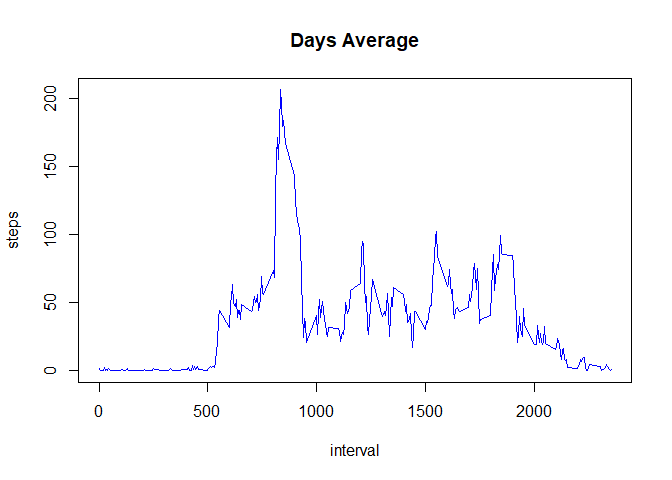
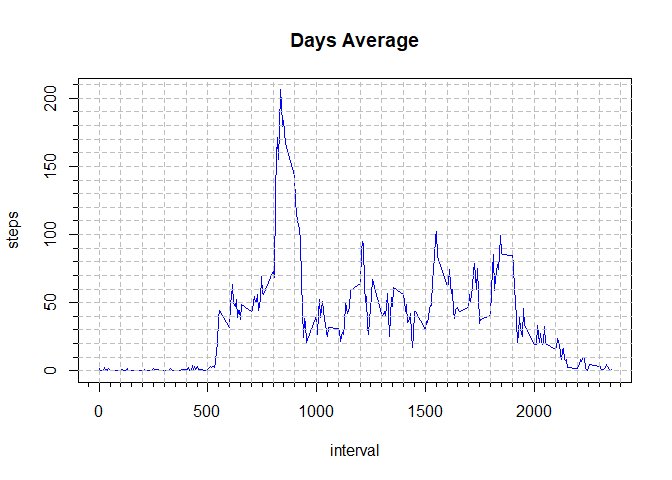
NA and format of the text

diff --git a/PA1_template.html b/PA1_template.html
@@ -195,16 +195,16 @@ pre code {
 </div>
 <div id="what-is-mean-total-number-of-steps-taken-per-day" class="section level2">
 <h2>What is mean total number of steps taken per day?</h2>
-<p>Calculate the total number of steps taken per day</p>
-<pre class="r"><code>act_notNan &lt;- subset(act, !is.na(act$steps))
+<p><strong>Calculate the total number of steps taken per day</strong></p>
+<pre class="r"><code>act_notNan &lt;- act_notNan &lt;- na.omit(act)
 act_steps_day &lt;- setNames(aggregate(
                           x=act_notNan$steps, by=list(act_notNan$date), sum), 
                  c(&quot;Date&quot;, &quot;Total_Steps&quot;))</code></pre>
-<p>If you do not understand the difference between a histogram and a barplot, research the difference between them. Make a histogram of the total number of steps taken each day</p>
+<p><strong>If you do not understand the difference between a histogram and a barplot, research the difference between them. Make a histogram of the total number of steps taken each day</strong></p>
 <pre class="r"><code>hist(act_steps_day$&#39;Total_Steps&#39;, 
      col = &quot;green&quot;, main=&quot;Steps Frequency&quot;, xlab = &quot;Step Intervals&quot;)</code></pre>
[1 lines of base64/hex data omitted]
-<p>Calculate and report the mean and median of the total number of steps taken per day</p>
[1 lines of base64/hex data omitted]
+<p><strong>Calculate and report the mean and median of the total number of steps taken per day</strong></p>
 <pre class="r"><code>mean(act_steps_day$Total_Steps)</code></pre>
 <pre><code>## [1] 10766.19</code></pre>
 <pre class="r"><code>median(act_steps_day$Total_Steps)</code></pre>
@@ -212,17 +212,58 @@ act_steps_day &lt;- setNames(aggregate(
 </div>
 <div id="what-is-the-average-daily-activity-pattern" class="section level2">
 <h2>What is the average daily activity pattern?</h2>
-<p>Make a time series plot (i.e. type = “l”) of the 5-minute interval (x-axis) and the average number of steps taken, averaged across all days (y-axis)</p>
-<pre class="r"><code>act_mean &lt;- aggregate(steps ~ interval, data = act_notNan, mean)
-with(act_mean, plot(interval, steps, type=&quot;l&quot;, col=&quot;blue&quot;, main=&quot;Days Average&quot;))</code></pre>
[1 lines of base64/hex data omitted]
-<p>Which 5-minute interval, on average across all the days in the dataset, contains the maximum number of steps?</p>
+<p><strong>Make a time series plot (i.e. type = “l”) of the 5-minute interval (x-axis) and the average number of steps taken, averaged across all days (y-axis)</strong></p>
+<pre class="r"><code>library(Hmisc)
+act_mean &lt;- aggregate(steps ~ interval, data = act_notNan, mean)
+with(act_mean, plot(interval, steps, type=&quot;l&quot;, col=&quot;blue&quot;, main=&quot;Days Average&quot;))
+minor.tick(nx = 10, ny = 5, tick.ratio = 0.5)
+abline(v = seq(0, 2500, 100), lty = 2, col = &quot;gray&quot;)
+abline(h = seq(0, 210, 10), lty = 2, col = &quot;gray&quot;)</code></pre>
[1 lines of base64/hex data omitted]
+<p><strong>Which 5-minute interval, on average across all the days in the dataset, contains the maximum number of steps?</strong></p>
+<pre class="r"><code>subset(act_mean$interval, act_mean$steps == max(act_mean$steps))</code></pre>
+<pre><code>## [1] 835</code></pre>
 </div>
 <div id="imputing-missing-values" class="section level2">
 <h2>Imputing missing values</h2>
+<p><strong>Calculate and report the total number of missing values in the dataset (i.e. the total number of rows with NAs)</strong></p>
+<pre class="r"><code>sum(!complete.cases(act))</code></pre>
+<pre><code>## [1] 2304</code></pre>
+<p><strong>Devise a strategy for filling in all of the missing values in the dataset. The strategy does not need to be sophisticated. For example, you could use the mean/median for that day, or the mean for that 5-minute interval, etc.</strong></p>
+<p>To decide the best strategy keep in mind that:</p>
+<ul>
+<li>Can’t drop rows because may introduce bias into some calculations or summaries of the data.</li>
+<li>All NA values are in the steps column.</li>
+<li>NA are found in all intervals of the same date.</li>
+</ul>
+<p>So, I decided to use the mean for that 5-minute interval.</p>
+<p><strong>Create a new dataset that is equal to the original dataset but with the missing data filled in.</strong></p>
+<pre class="r"><code>act_fill &lt;- act
+
+act_inter &lt;- setNames(aggregate(
+        x=act_notNan$steps, by=list(act_notNan$interval), mean), 
+        c(&quot;Interval&quot;, &quot;Steps_mean&quot;))
+
+
+for(int in act_inter$Interval){
+        step &lt;- act_inter$Steps_mean[act_inter$Interval == int]
+        act_fill$steps[is.na(act_fill$steps) &amp; act_fill$interval == int] &lt;- step
+}
+
+summary(act_fill)</code></pre>
+<pre><code>##      steps            date              interval     
+##  Min.   :  0.00   Length:17568       Min.   :   0.0  
+##  1st Qu.:  0.00   Class :character   1st Qu.: 588.8  
+##  Median :  0.00   Mode  :character   Median :1177.5  
+##  Mean   : 37.38                      Mean   :1177.5  
+##  3rd Qu.: 27.00                      3rd Qu.:1766.2  
+##  Max.   :806.00                      Max.   :2355.0</code></pre>
+<p><strong>Make a histogram of the total number of steps taken each day and Calculate and report the mean and median total number of steps taken per day. Do these values differ from the estimates from the first part of the assignment? What is the impact of imputing missing data on the estimates of the total daily number of steps?</strong></p>
 </div>
 <div id="are-there-differences-in-activity-patterns-between-weekdays-and-weekends" class="section level2">
 <h2>Are there differences in activity patterns between weekdays and weekends?</h2>
+<p><strong>Create a new factor variable in the dataset with two levels – “weekday” and “weekend” indicating whether a given date is a weekday or weekend day.</strong></p>
+<p><strong>Make a panel plot containing a time series plot (i.e. type = “l”) of the 5-minute interval (x-axis) and the average number of steps taken, averaged across all weekday days or weekend days (y-axis). See the README file in the GitHub repository to see an example of what this plot should look like using simulated data.</strong></p>
 </div>
 
 

diff --git a/PA1_template.md b/PA1_template.md
@@ -51,19 +51,19 @@ summary(act)
 
 ## What is mean total number of steps taken per day?
 
-Calculate the total number of steps taken per day
+**Calculate the total number of steps taken per day**
 
 
 ```r
-act_notNan <- subset(act, !is.na(act$steps))
+act_notNan <- act_notNan <- na.omit(act)
 act_steps_day <- setNames(aggregate(
                           x=act_notNan$steps, by=list(act_notNan$date), sum), 
                  c("Date", "Total_Steps"))
 ```
 
-If you do not understand the difference between a histogram and a barplot, 
+**If you do not understand the difference between a histogram and a barplot, 
 research the difference between them. Make a histogram of the total number 
-of steps taken each day
+of steps taken each day**
 
 
 ```r
@@ -71,10 +71,10 @@ hist(act_steps_day$'Total_Steps',
      col = "green", main="Steps Frequency", xlab = "Step Intervals")
 ```
 
-![](PA1_template_files/figure-html/hist-1.png)<!-- -->
+<img src="PA1_template_files/figure-html/hist-1.png" width="50%" height="50%" />
 
-Calculate and report the mean and median of the total number of steps taken 
-per day
+**Calculate and report the mean and median of the total number of steps taken 
+per day**
 
 
 ```r
@@ -95,23 +95,90 @@ median(act_steps_day$Total_Steps)
 
 ## What is the average daily activity pattern?
 
-Make a time series plot (i.e. type = "l") of the 5-minute interval (x-axis) 
-and the average number of steps taken, averaged across all days (y-axis)
+**Make a time series plot (i.e. type = "l") of the 5-minute interval (x-axis) 
+and the average number of steps taken, averaged across all days (y-axis)**
 
 
 ```r
+library(Hmisc)
 act_mean <- aggregate(steps ~ interval, data = act_notNan, mean)
 with(act_mean, plot(interval, steps, type="l", col="blue", main="Days Average"))
+minor.tick(nx = 10, ny = 5, tick.ratio = 0.5)
+abline(v = seq(0, 2500, 100), lty = 2, col = "gray")
+abline(h = seq(0, 210, 10), lty = 2, col = "gray")
 ```
 
 ![](PA1_template_files/figure-html/average-1.png)<!-- -->
 
-Which 5-minute interval, on average across all the days in the dataset, contains the maximum number of steps?
+**Which 5-minute interval, on average across all the days in the dataset, contains 
+the maximum number of steps?**
 
+```r
+subset(act_mean$interval, act_mean$steps == max(act_mean$steps))
+```
 
+```
+## [1] 835
+```
 
 ## Imputing missing values
 
+**Calculate and report the total number of missing values in the dataset (i.e. the total number of rows with NAs)**
 
+```r
+sum(!complete.cases(act))
+```
+
+```
+## [1] 2304
+```
+
+**Devise a strategy for filling in all of the missing values in the dataset. 
+The strategy does not need to be sophisticated. For example, you could use the 
+mean/median for that day, or the mean for that 5-minute interval, etc.**
+
+To decide the best strategy keep in mind that:
+
+- Can't drop rows because may introduce bias into some calculations or summaries of the data.
+- All NA values are in the steps column.
+- NA are found in all intervals of the same date.
+
+So, I decided to use the mean for that 5-minute interval.
+
+
+**Create a new dataset that is equal to the original dataset but with the missing data filled in.**
+
+
+```r
+act_fill <- act
+
+act_inter <- setNames(aggregate(
+        x=act_notNan$steps, by=list(act_notNan$interval), mean), 
+        c("Interval", "Steps_mean"))
+
+
+for(int in act_inter$Interval){
+        step <- act_inter$Steps_mean[act_inter$Interval == int]
+        act_fill$steps[is.na(act_fill$steps) & act_fill$interval == int] <- step
+}
+
+summary(act_fill)
+```
+
+```
+##      steps            date              interval     
+##  Min.   :  0.00   Length:17568       Min.   :   0.0  
+##  1st Qu.:  0.00   Class :character   1st Qu.: 588.8  
+##  Median :  0.00   Mode  :character   Median :1177.5  
+##  Mean   : 37.38                      Mean   :1177.5  
+##  3rd Qu.: 27.00                      3rd Qu.:1766.2  
+##  Max.   :806.00                      Max.   :2355.0
+```
+
+**Make a histogram of the total number of steps taken each day and Calculate and report the mean and median total number of steps taken per day. Do these values differ from the estimates from the first part of the assignment? What is the impact of imputing missing data on the estimates of the total daily number of steps?**
 
 ## Are there differences in activity patterns between weekdays and weekends?
+
+**Create a new factor variable in the dataset with two levels – “weekday” and “weekend” indicating whether a given date is a weekday or weekend day.**
+
+**Make a panel plot containing a time series plot (i.e. \color{red}{\verb|type = "l"|}type = "l") of the 5-minute interval (x-axis) and the average number of steps taken, averaged across all weekday days or weekend days (y-axis). See the README file in the GitHub repository to see an example of what this plot should look like using simulated data.**
